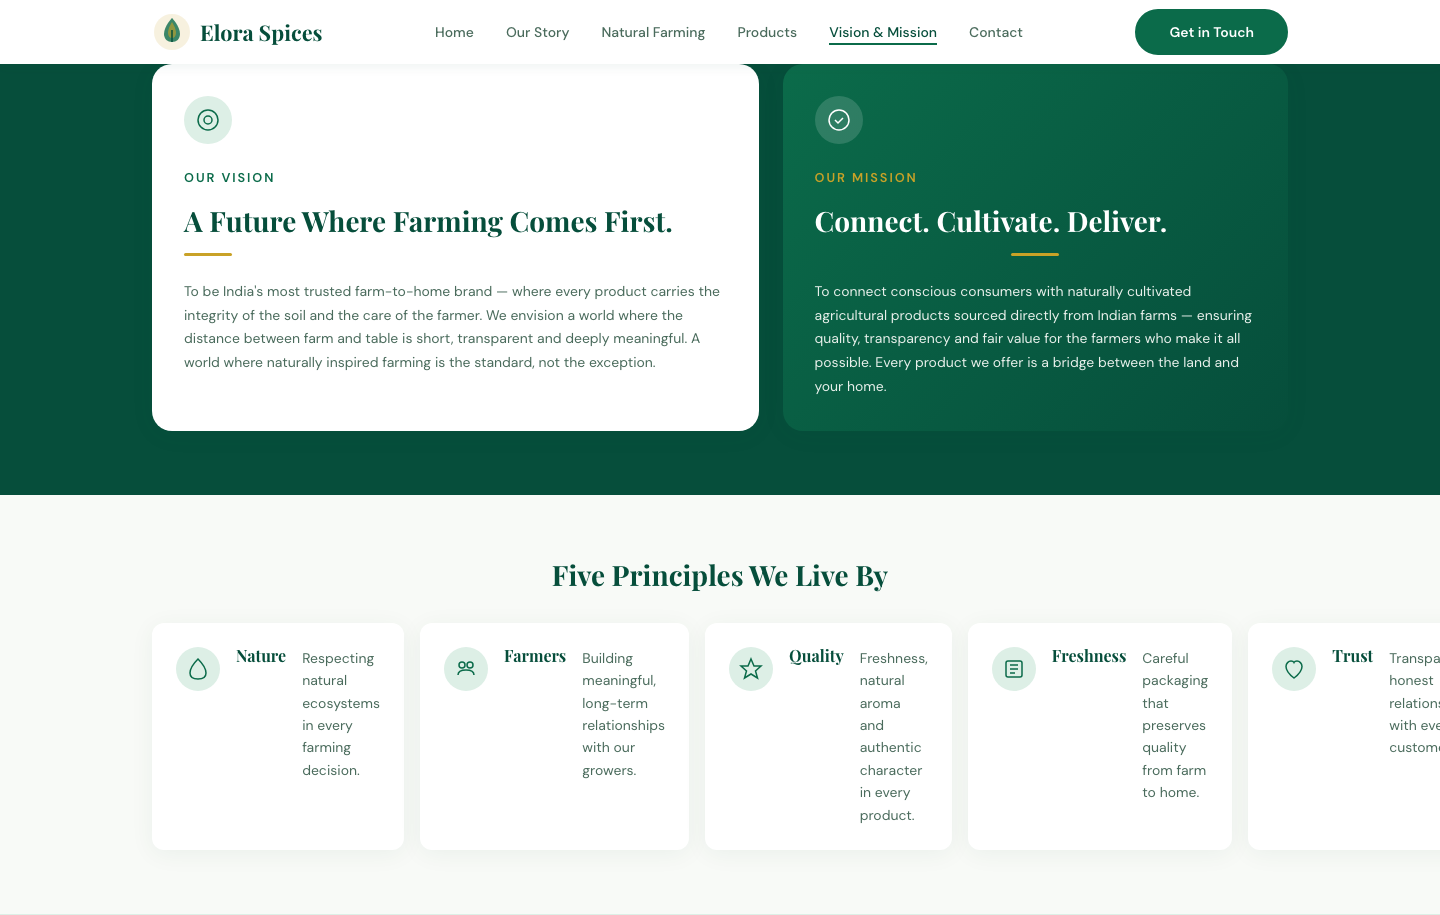
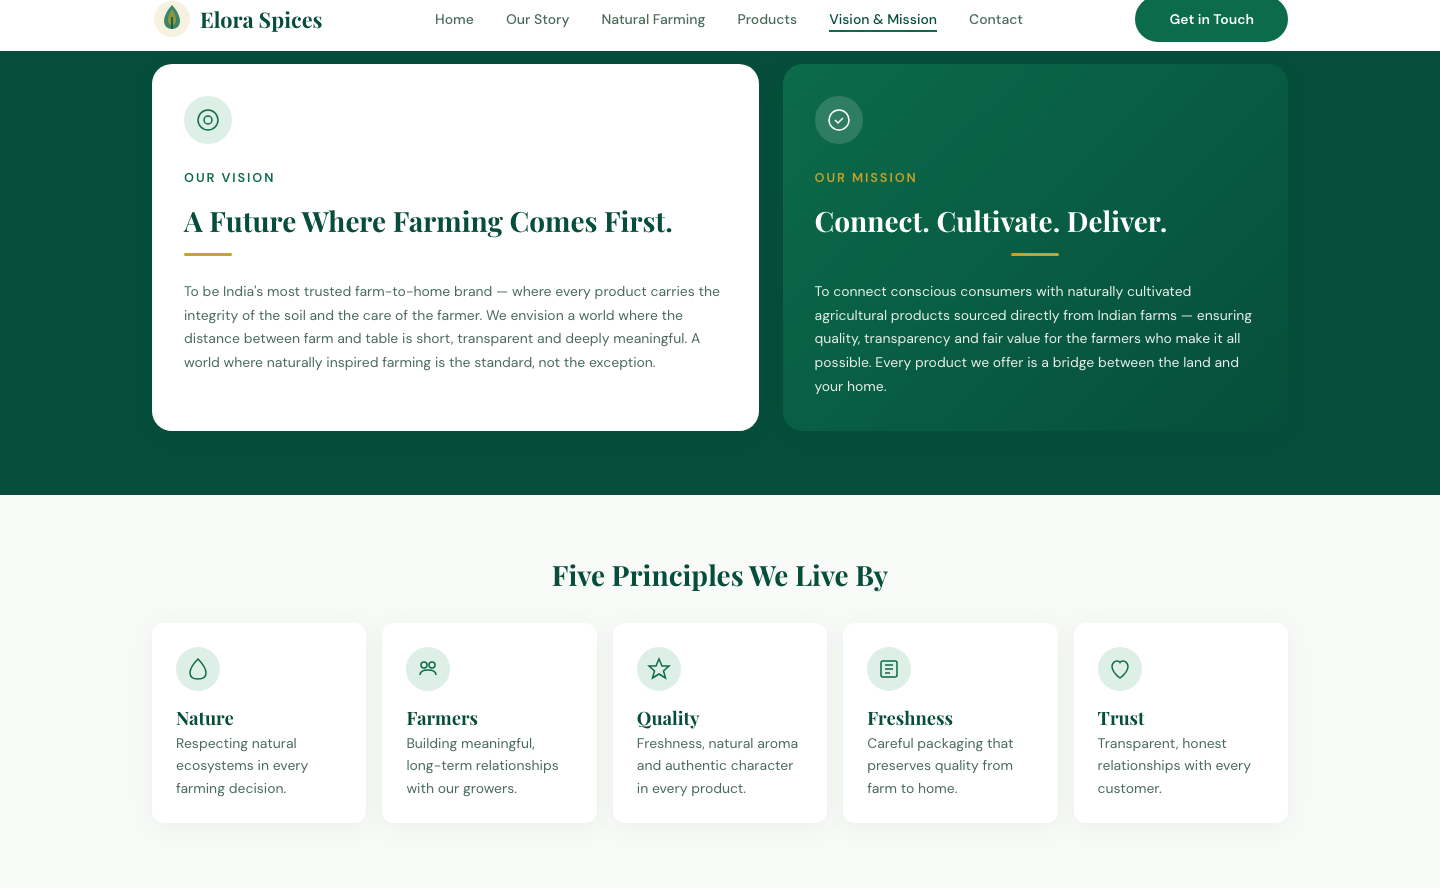
fix(ui): adjust principle cards to vertical column flow to eliminate empty space

diff --git a/css/layout.css b/css/layout.css
@@ -850,8 +850,8 @@ main > section[id] {
   border-radius: var(--radius-md);
   padding: var(--space-lg);
   display: flex;
+  flex-direction: column;
   align-items: flex-start;
-  gap: var(--space-md);
   box-shadow: var(--shadow-card);
   transition: transform var(--duration-normal) var(--ease-out), box-shadow var(--duration-normal) var(--ease-out);
 }
@@ -869,17 +869,21 @@ main > section[id] {
   display: flex;
   align-items: center;
   justify-content: center;
+  margin-bottom: var(--space-md);
   flex-shrink: 0;
 }
 
 .principle-card__title {
-  font-size: var(--text-base);
+  font-family: var(--font-heading);
+  font-size: var(--text-lg);
   font-weight: 700;
+  color: var(--color-primary-dark);
   margin-bottom: var(--space-xs);
 }
 
 .principle-card__text {
   font-size: var(--text-sm);
+  color: var(--color-text-muted);
   line-height: 1.6;
 }
 
